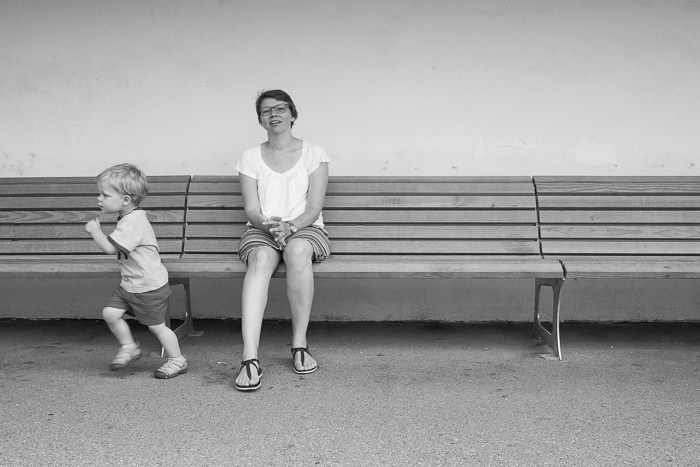
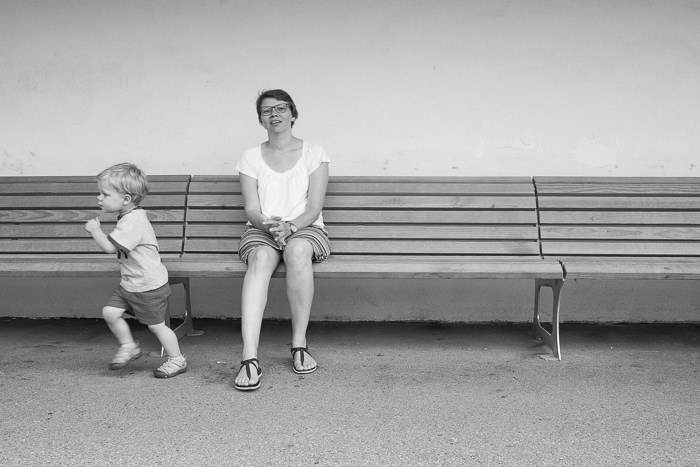
Emil: Never calm down

diff --git a/_posts/images/projects/emil/2017-08-05-2017-08-05.md b/_posts/images/projects/emil/2017-08-05-2017-08-05.md
@@ -3,9 +3,13 @@ layout: image
 title: Never calm down
 permalink: 
 tags: emil
-thumburl: /i/DSCF2852_thumb.jpg
-slideurl: /i/DSCF2852.jpg 
+thumburl: /i/DSCF2850_thumb.jpg
+slideurl: /i/DSCF2850.jpg 
 ---
+![]({{site.url}}/i/DSCF2850.jpg)
+
+![]({{site.url}}/i/DSCF2851.jpg)
+
 ![]({{site.url}}/i/DSCF2852.jpg)
 
-![]({{site.url}}/i/DSCF2850.jpg)
+
